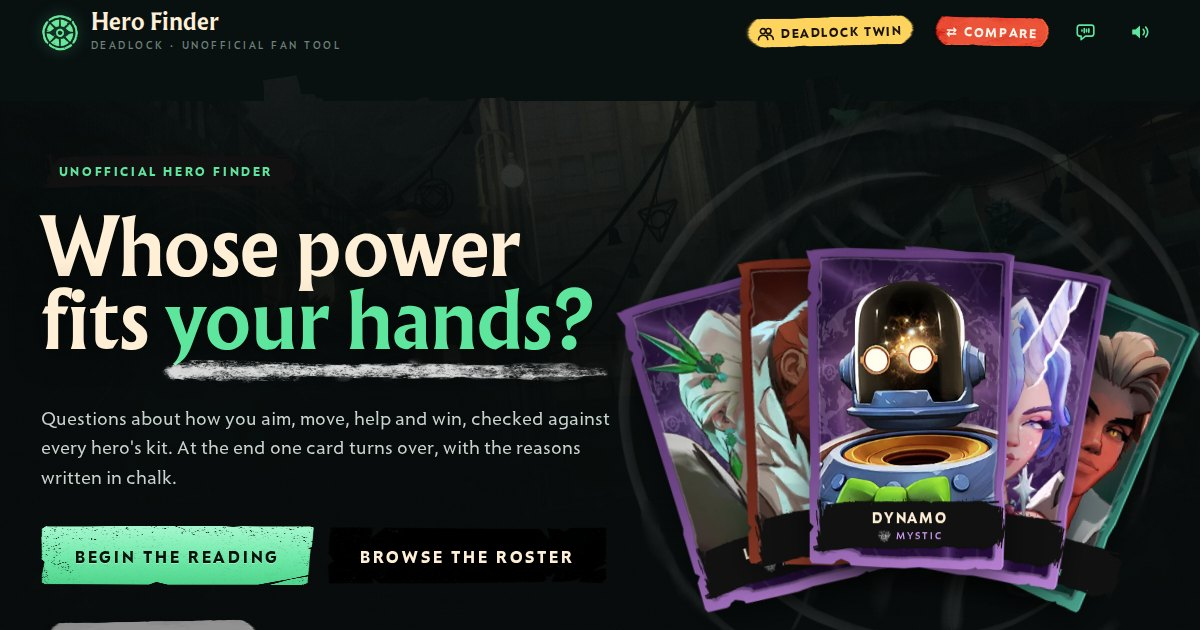
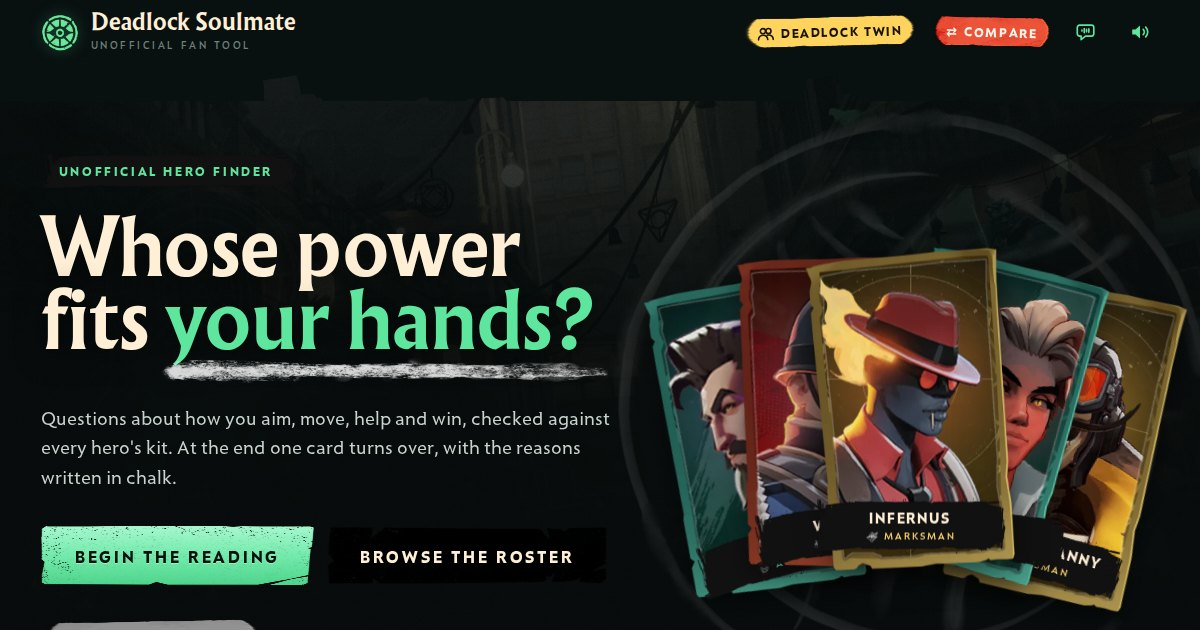
Rename the site to Deadlock Soulmate
New public address deadlock-soulmate.vercel.app; the old
ritual-reading.vercel.app address redirects there. Share links, the
share card, page title, header and README use the new name.

Claude-Session: https://claude.ai/code/session_017tnLM9XA4428LoPo2sC3yr

Changed region(s): [[0.4933, 0.3921, 1.0, 0.9651], [0.0617, 0.0, 0.2775, 0.0905]]

diff --git a/site/index.html b/site/index.html
@@ -6,12 +6,12 @@
 <meta name="theme-color" content="#0b1413">
 <link rel="icon" type="image/png" href="favicon.png">
 <meta property="og:type" content="website">
-<meta property="og:title" content="Deadlock Hero Finder">
+<meta property="og:title" content="Deadlock Soulmate">
 <meta property="og:description" content="A playstyle reading that matches you to a Deadlock hero, with side-by-side hero comparisons and look-alikes from other games.">
-<meta property="og:url" content="https://ritual-reading.vercel.app/">
-<meta property="og:image" content="https://ritual-reading.vercel.app/og.jpg">
+<meta property="og:url" content="https://deadlock-soulmate.vercel.app/">
+<meta property="og:image" content="https://deadlock-soulmate.vercel.app/og.jpg">
 <meta name="twitter:card" content="summary_large_image">
-<title>Deadlock Hero Finder</title>
+<title>Deadlock Soulmate &#xB7; Find your hero</title>
 <meta name="description" content="A playstyle reading that matches you to a Deadlock hero, with side-by-side hero comparisons and look-alikes from other games.">
 <style>
 @font-face{font-family:"DL Retail";src:url("img/font/retail-semibold.woff2") format("woff2");font-weight:600;font-display:swap}
@@ -942,7 +942,7 @@ footer p{margin:0; max-width:78em}
   <div class="wrap">
     <button class="brand" id="home" type="button" data-hov aria-label="Back to start">
       <img src="img/k/mark.webp" alt="">
-      <span><b>Hero Finder</b><small>Deadlock &#xB7; unofficial fan tool</small></span>
+      <span><b>Deadlock Soulmate</b><small>Unofficial fan tool</small></span>
     </button>
     <div class="tright">
       <button class="tape nav-cmp nav-twin" id="navTwin" type="button" data-hov aria-label="Find your Deadlock twin"><svg class="ti" viewBox="0 0 20 16" aria-hidden="true"><circle cx="7" cy="5" r="3"/><path d="M1.5 15c.4-3.4 2.6-5.3 5.5-5.3s5.1 1.9 5.5 5.3"/><circle cx="13.5" cy="5" r="3"/><path d="M12 9.9c.5-.1 1-.2 1.5-.2 2.9 0 5.1 1.9 5.5 5.3"/></svg> <span>Deadlock twin</span></button>
@@ -2678,7 +2678,7 @@ function addAlly(id, name){
 
 // ================= share =================
 // the public site; share links and codes open there for anyone
-const SHARE_URL = "https://ritual-reading.vercel.app/";
+const SHARE_URL = "https://deadlock-soulmate.vercel.app/";
 // one character per question (two for the pick-two question): x = not reached, s = skipped
 function encodeAnswers(a, name){
   const body = QUESTIONS.map(q => {
@@ -2780,7 +2780,7 @@ async function drawShare(res, name){
   // text column
   const X = 366; x.textBaseline = "alphabetic";
   x.fillStyle = "#5FE69E"; x.font = '700 19px "DL Retail", "Arial Narrow", sans-serif';
-  spaced(x, (name ? `${name}'s Deadlock hero` : "My Deadlock hero").toUpperCase(), X, 92, 4);
+  spaced(x, (name ? `${name}'s Deadlock soulmate` : "My Deadlock soulmate").toUpperCase(), X, 92, 4);
   if (nm){ let nh = 118, nw = nh*NM[h.id]; if (nw > 470){ nw = 470; nh = nw/NM[h.id]; } x.drawImage(tinted(nm, h.c2, nw, nh), X-4, 112, nw, nh); }
   else { x.fillStyle = h.c2; x.font = '700 84px "DL Reaver", Georgia, serif'; x.fillText(h.name, X, 200); }
   x.fillStyle = "#EFE7D6"; x.font = '600 58px "DL Oracle", Georgia, serif'; const pctT = `${Math.round(top.score*100)}%`; x.fillText(pctT, X, 318);
@@ -2799,8 +2799,8 @@ async function drawShare(res, name){
   });
   // footer
   if (mark) x.drawImage(mark, 58, H - 62, 34, 34);
-  x.fillStyle = "#EFE7D6"; x.font = '700 17px "DL Retail", "Arial Narrow", sans-serif'; spaced(x, "HERO FINDER", 102, H - 40, 3);
-  x.fillStyle = "#8a9a94"; x.font = '400 14px "DL Radiance", "Segoe UI", sans-serif'; x.fillText("Unofficial Deadlock fan tool \u00B7 ritual-reading.vercel.app", 102, H - 21);
+  x.fillStyle = "#EFE7D6"; x.font = '700 17px "DL Retail", "Arial Narrow", sans-serif'; spaced(x, "DEADLOCK SOULMATE", 102, H - 40, 3);
+  x.fillStyle = "#8a9a94"; x.font = '400 14px "DL Radiance", "Segoe UI", sans-serif'; x.fillText("Unofficial fan tool \u00B7 deadlock-soulmate.vercel.app", 102, H - 21);
   x.textAlign = "right"; x.fillStyle = "#9fb3ab"; x.font = '700 13px "DL Retail", "Arial Narrow", sans-serif'; spaced(x, "SHARE CODE", W - 40, H - 44, 3);
   x.fillStyle = "#EFE7D6"; x.font = '600 17px "DL Oracle", Georgia, serif'; x.fillText(encodeAnswers(answers, name), W - 40, H - 21); x.textAlign = "left";
   return c;

diff --git a/src/app2.js b/src/app2.js
@@ -850,7 +850,7 @@ function addAlly(id, name){
 
 // ================= share =================
 // the public site; share links and codes open there for anyone
-const SHARE_URL = "https://ritual-reading.vercel.app/";
+const SHARE_URL = "https://deadlock-soulmate.vercel.app/";
 // one character per question (two for the pick-two question): x = not reached, s = skipped
 function encodeAnswers(a, name){
   const body = QUESTIONS.map(q => {
@@ -952,7 +952,7 @@ async function drawShare(res, name){
   // text column
   const X = 366; x.textBaseline = "alphabetic";
   x.fillStyle = "#5FE69E"; x.font = '700 19px "DL Retail", "Arial Narrow", sans-serif';
-  spaced(x, (name ? `${name}'s Deadlock hero` : "My Deadlock hero").toUpperCase(), X, 92, 4);
+  spaced(x, (name ? `${name}'s Deadlock soulmate` : "My Deadlock soulmate").toUpperCase(), X, 92, 4);
   if (nm){ let nh = 118, nw = nh*NM[h.id]; if (nw > 470){ nw = 470; nh = nw/NM[h.id]; } x.drawImage(tinted(nm, h.c2, nw, nh), X-4, 112, nw, nh); }
   else { x.fillStyle = h.c2; x.font = '700 84px "DL Reaver", Georgia, serif'; x.fillText(h.name, X, 200); }
   x.fillStyle = "#EFE7D6"; x.font = '600 58px "DL Oracle", Georgia, serif'; const pctT = `${Math.round(top.score*100)}%`; x.fillText(pctT, X, 318);
@@ -971,8 +971,8 @@ async function drawShare(res, name){
   });
   // footer
   if (mark) x.drawImage(mark, 58, H - 62, 34, 34);
-  x.fillStyle = "#EFE7D6"; x.font = '700 17px "DL Retail", "Arial Narrow", sans-serif'; spaced(x, "HERO FINDER", 102, H - 40, 3);
-  x.fillStyle = "#8a9a94"; x.font = '400 14px "DL Radiance", "Segoe UI", sans-serif'; x.fillText("Unofficial Deadlock fan tool · ritual-reading.vercel.app", 102, H - 21);
+  x.fillStyle = "#EFE7D6"; x.font = '700 17px "DL Retail", "Arial Narrow", sans-serif'; spaced(x, "DEADLOCK SOULMATE", 102, H - 40, 3);
+  x.fillStyle = "#8a9a94"; x.font = '400 14px "DL Radiance", "Segoe UI", sans-serif'; x.fillText("Unofficial fan tool · deadlock-soulmate.vercel.app", 102, H - 21);
   x.textAlign = "right"; x.fillStyle = "#9fb3ab"; x.font = '700 13px "DL Retail", "Arial Narrow", sans-serif'; spaced(x, "SHARE CODE", W - 40, H - 44, 3);
   x.fillStyle = "#EFE7D6"; x.font = '600 17px "DL Oracle", Georgia, serif'; x.fillText(encodeAnswers(answers, name), W - 40, H - 21); x.textAlign = "left";
   return c;

diff --git a/src/template2.html b/src/template2.html
@@ -1,4 +1,4 @@
-<title>Deadlock Hero Finder</title>
+<title>Deadlock Soulmate · Find your hero</title>
 <meta name="description" content="A playstyle reading that matches you to a Deadlock hero, with side-by-side hero comparisons and look-alikes from other games.">
 <style>
 @font-face{font-family:"DL Retail";src:url("img/font/retail-semibold.woff2") format("woff2");font-weight:600;font-display:swap}
@@ -928,7 +928,7 @@ footer p{margin:0; max-width:78em}
   <div class="wrap">
     <button class="brand" id="home" type="button" data-hov aria-label="Back to start">
       <img src="img/k/mark.webp" alt="">
-      <span><b>Hero Finder</b><small>Deadlock · unofficial fan tool</small></span>
+      <span><b>Deadlock Soulmate</b><small>Unofficial fan tool</small></span>
     </button>
     <div class="tright">
       <button class="tape nav-cmp nav-twin" id="navTwin" type="button" data-hov aria-label="Find your Deadlock twin"><svg class="ti" viewBox="0 0 20 16" aria-hidden="true"><circle cx="7" cy="5" r="3"/><path d="M1.5 15c.4-3.4 2.6-5.3 5.5-5.3s5.1 1.9 5.5 5.3"/><circle cx="13.5" cy="5" r="3"/><path d="M12 9.9c.5-.1 1-.2 1.5-.2 2.9 0 5.1 1.9 5.5 5.3"/></svg> <span>Deadlock twin</span></button>

diff --git a/pipeline/build2.py b/pipeline/build2.py
@@ -20,13 +20,13 @@ assert all(ord(ch)<128 for ch in out), 'non-ascii left'
 os.makedirs('artifact', exist_ok=True)
 open('artifact/index.html','w').write(out)
 # standalone site (GitHub / Vercel): a full document
-SITE_URL = 'https://ritual-reading.vercel.app/'
+SITE_URL = 'https://deadlock-soulmate.vercel.app/'
 i = out.index('<div id="boot"')
 head, body = out[:i], out[i:]
 desc = re.search(r'<meta name="description" content="([^"]*)">', head).group(1)
 meta = ('<meta charset="utf-8">\n<meta name="viewport" content="width=device-width, initial-scale=1">\n'
         '<meta name="theme-color" content="#0b1413">\n<link rel="icon" type="image/png" href="favicon.png">\n'
-        f'<meta property="og:type" content="website">\n<meta property="og:title" content="Deadlock Hero Finder">\n'
+        f'<meta property="og:type" content="website">\n<meta property="og:title" content="Deadlock Soulmate">\n'
         f'<meta property="og:description" content="{desc}">\n<meta property="og:url" content="{SITE_URL}">\n'
         f'<meta property="og:image" content="{SITE_URL}og.jpg">\n<meta name="twitter:card" content="summary_large_image">\n')
 full = '<!doctype html>\n<html lang="en">\n<head>\n' + meta + head.rstrip() + '\n</head>\n<body>\n' + body.rstrip() + '\n</body>\n</html>\n'

diff --git a/README.md b/README.md
@@ -1,8 +1,8 @@
-# Ritual Reading: Deadlock Hero Finder
+# Deadlock Soulmate
 
 An unofficial fan site for Valve's Deadlock. You answer a short questionnaire about how you like to play, and a tarot-style reading picks the hero that suits you. The site also has a dossier for every hero, side-by-side comparisons and a "Deadlock twin" finder for players coming from Overwatch, Marvel Rivals, Valorant, League of Legends and Apex Legends.
 
-**Live site:** https://ritual-reading.vercel.app/
+**Live site:** https://deadlock-soulmate.vercel.app/
 
 The site covers all 44 playable heroes as of game build 6805 (October 2026). That includes the six heroes released in October 2026: Rat King, Baba, Solomon, Deadman Danny, Violet and Nurse Harrow.
 
